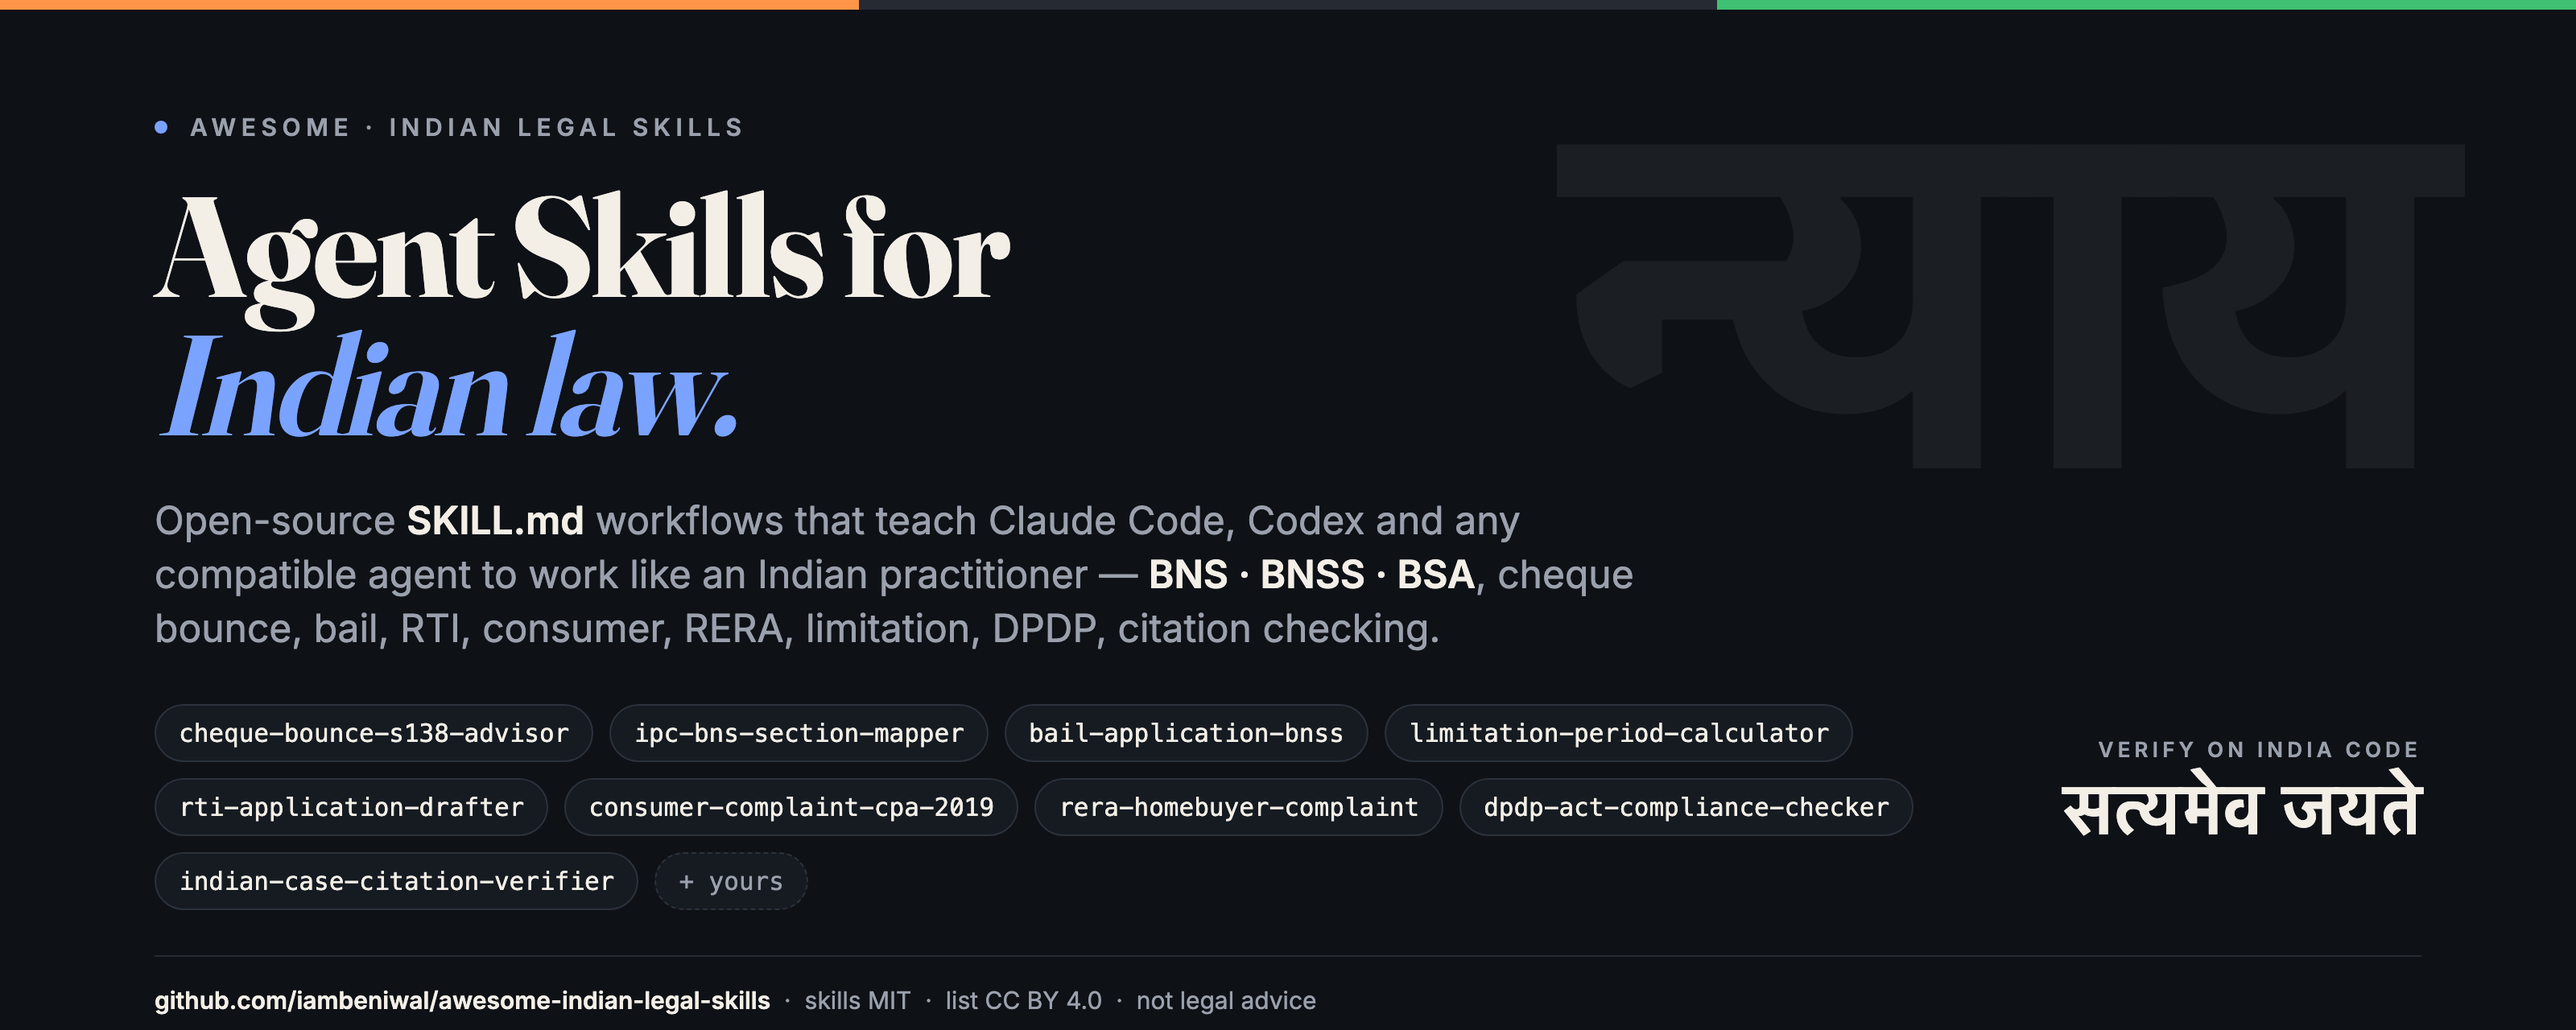
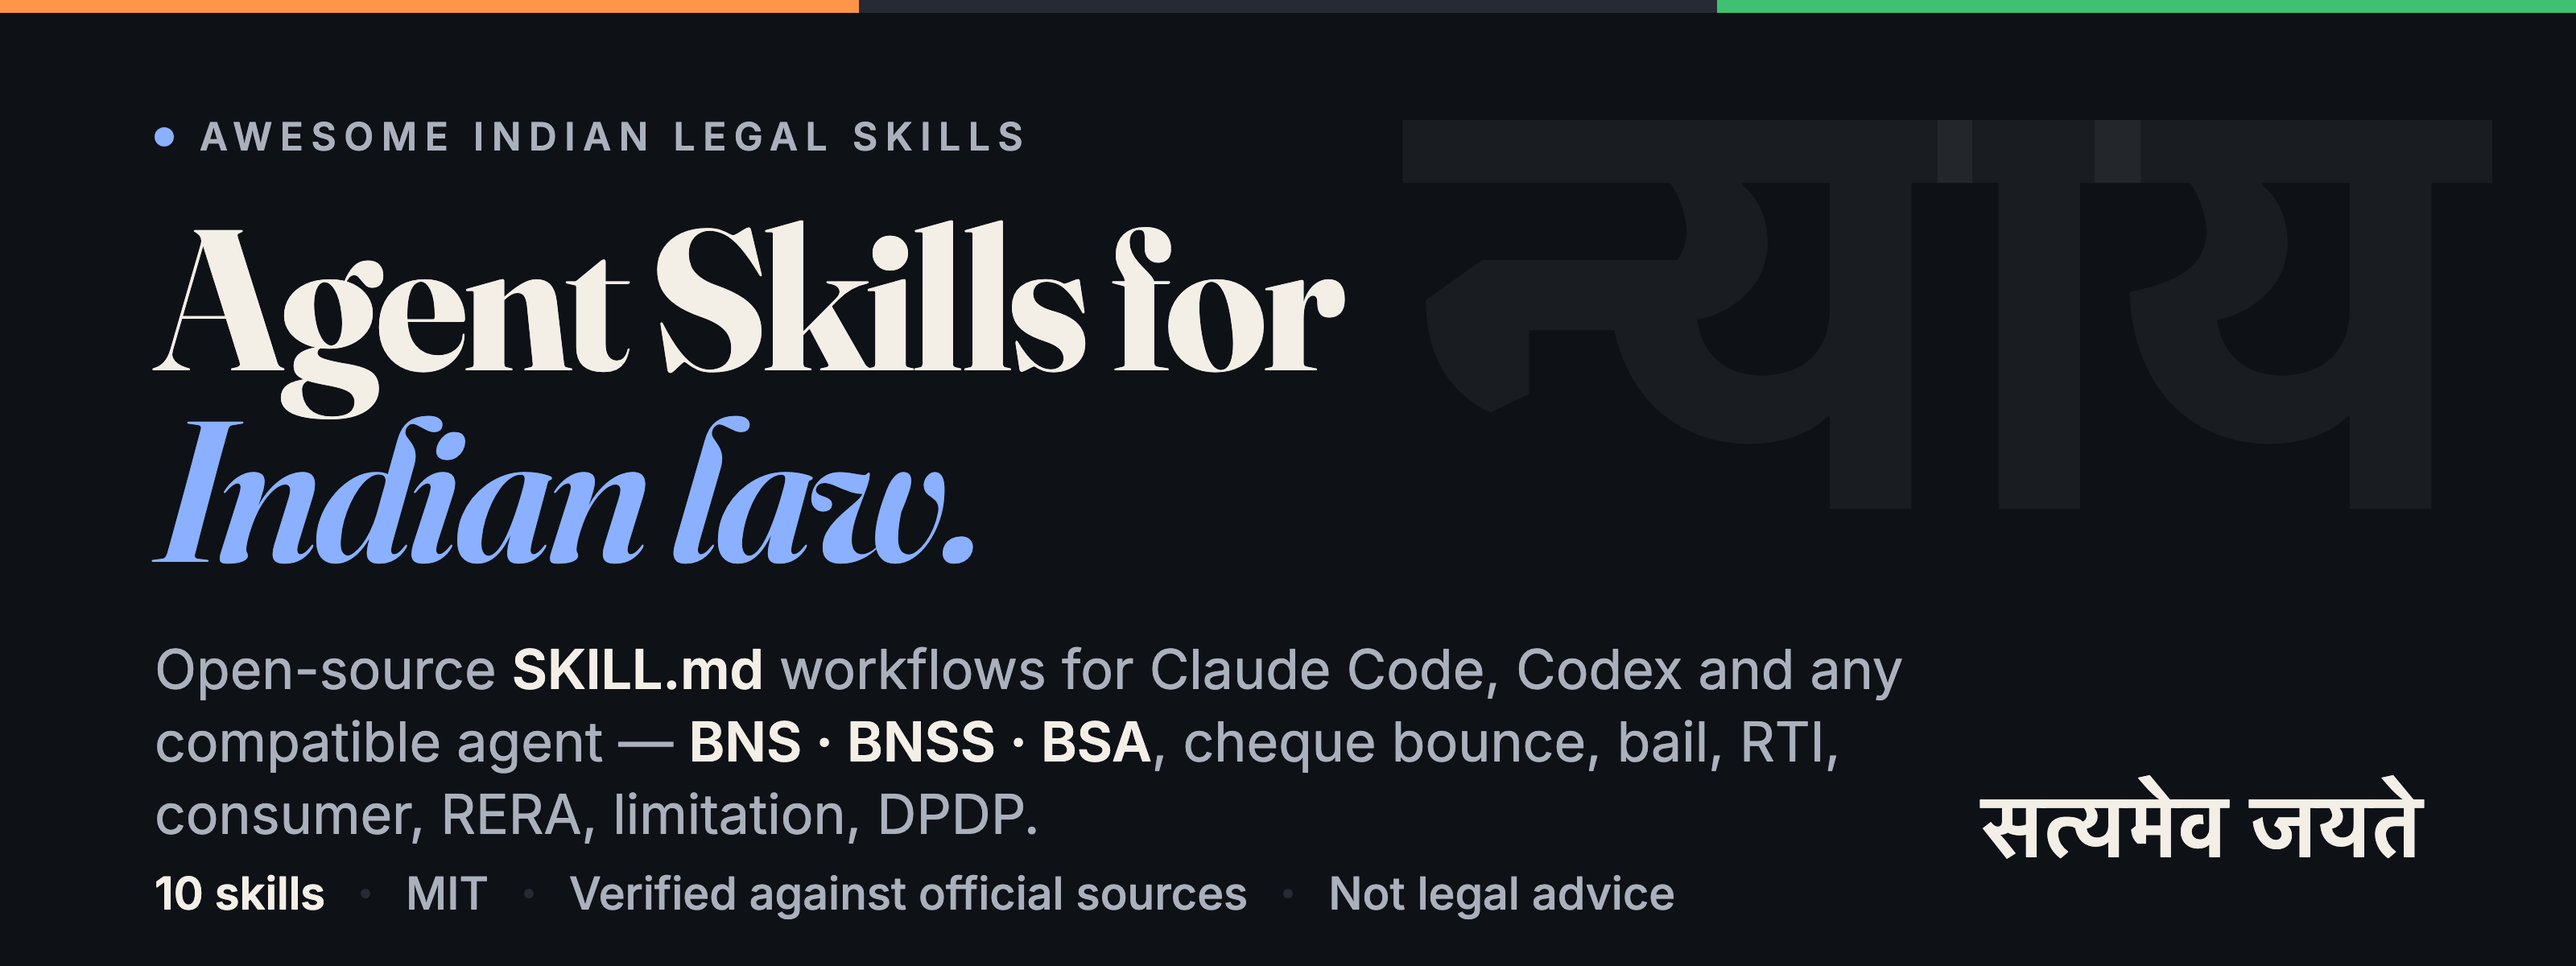
Cover: larger type for GitHub's README width; drop the small pills and footer

diff --git a/assets/cover.html b/assets/cover.html
@@ -4,38 +4,35 @@
 <meta charset="utf-8">
 <title>Awesome Indian Legal Skills — cover</title>
 <link rel="preconnect" href="https://fonts.googleapis.com">
-<link href="https://fonts.googleapis.com/css2?family=Fraunces:opsz,wght@9..144,600;9..144,700&family=Inter:wght@400;500;600&display=swap" rel="stylesheet">
+<link href="https://fonts.googleapis.com/css2?family=Fraunces:ital,opsz,wght@0,9..144,700;1,9..144,600&family=Inter:wght@400;500;600&display=swap" rel="stylesheet">
 <style>
+  /* Designed at 1600 × 600 but READ at ~900 px wide on GitHub (≈56 %). Keep every text ≥ 28 px here. */
   :root {
-    --bg: #faf7f2; --ink: #15171c; --muted: #5c6270; --rule: #e3ded5;
-    --pill: #ffffff; --pill-border: #d9d3c8; --saffron: #e8792b; --green: #1f8a4c; --navy: #1d3b8a;
+    --bg: #faf7f2; --ink: #15171c; --muted: #4f5563; --rule: #e3ded5;
+    --saffron: #e8792b; --green: #1f8a4c; --navy: #1d3b8a; --wm: rgba(21,23,28,0.06);
   }
   .dark {
-    --bg: #0e1116; --ink: #f3efe7; --muted: #9aa1ad; --rule: #262b33;
-    --pill: #161b22; --pill-border: #2b323c; --saffron: #ff9548; --green: #3fc072; --navy: #7aa2ff;
+    --bg: #0e1116; --ink: #f3efe7; --muted: #aab1bd; --rule: #262b33;
+    --saffron: #ff9548; --green: #3fc072; --navy: #8ab0ff; --wm: rgba(243,239,231,0.05);
   }
   * { box-sizing: border-box; margin: 0; }
-  html, body { width: 1600px; height: 640px; overflow: hidden; }
+  html, body { width: 1600px; height: 600px; overflow: hidden; }
   body { background: var(--bg); color: var(--ink); font-family: Inter, -apple-system, "Helvetica Neue", Arial, sans-serif; position: relative; }
-  .tricolour { position: absolute; left: 0; right: 0; top: 0; height: 6px; display: flex; }
+  .tricolour { position: absolute; left: 0; right: 0; top: 0; height: 8px; display: flex; }
   .tricolour span { flex: 1; }
   .tricolour .s { background: var(--saffron); } .tricolour .w { background: var(--rule); } .tricolour .g { background: var(--green); }
-  .wrap { position: absolute; inset: 6px 0 0 0; padding: 64px 96px 52px; display: flex; flex-direction: column; justify-content: space-between; }
-  .eyebrow { font-size: 15px; letter-spacing: 0.22em; text-transform: uppercase; color: var(--muted); font-weight: 600; display: flex; align-items: center; gap: 14px; }
-  .eyebrow .dot { width: 8px; height: 8px; border-radius: 50%; background: var(--navy); display: inline-block; }
-  h1 { font-family: Fraunces, "Iowan Old Style", Georgia, serif; font-weight: 700; font-size: 88px; line-height: 0.98; letter-spacing: -0.02em; max-width: 1050px; margin-top: 22px; font-variation-settings: "opsz" 144; }
+  .nyaya { position: absolute; right: 70px; top: 10px; font-family: "Kohinoor Devanagari", "Devanagari Sangam MN", "Noto Sans Devanagari", sans-serif; font-size: 360px; line-height: 1; font-weight: 700; color: var(--wm); letter-spacing: -0.02em; }
+  .wrap { position: absolute; inset: 8px 0 0 0; padding: 62px 96px 60px; display: flex; flex-direction: column; justify-content: space-between; }
+  .eyebrow { font-size: 24px; letter-spacing: 0.2em; text-transform: uppercase; color: var(--muted); font-weight: 600; display: flex; align-items: center; gap: 16px; }
+  .eyebrow .dot { width: 12px; height: 12px; border-radius: 50%; background: var(--navy); display: inline-block; }
+  h1 { font-family: Fraunces, "Iowan Old Style", Georgia, serif; font-weight: 700; font-size: 124px; line-height: 0.96; letter-spacing: -0.025em; margin-top: 26px; font-variation-settings: "opsz" 144; }
   h1 em { font-style: italic; font-weight: 600; color: var(--navy); }
-  .sub { margin-top: 24px; font-size: 24px; line-height: 1.4; color: var(--muted); max-width: 980px; font-weight: 400; }
+  .sub { margin-top: 30px; font-size: 34px; line-height: 1.32; color: var(--muted); max-width: 1180px; font-weight: 400; }
   .sub b { color: var(--ink); font-weight: 600; }
-  .pills { display: flex; flex-wrap: wrap; gap: 10px; max-width: 1120px; margin-top: 30px; }
-  .pill { font-family: "SF Mono", Menlo, Consolas, monospace; font-size: 15.5px; padding: 8px 14px; border-radius: 999px; background: var(--pill); border: 1px solid var(--pill-border); color: var(--ink); }
-  .pill.more { color: var(--muted); border-style: dashed; }
-  .foot { display: flex; justify-content: space-between; align-items: flex-end; font-size: 15px; color: var(--muted); border-top: 1px solid var(--rule); padding-top: 18px; margin-top: 28px; }
-  .foot b { color: var(--ink); font-weight: 600; }
-  .nyaya { position: absolute; right: 84px; top: 36px; font-family: "Kohinoor Devanagari", "Devanagari Sangam MN", "Noto Sans Devanagari", sans-serif; font-size: 300px; line-height: 1; font-weight: 700; color: var(--ink); opacity: 0.055; letter-spacing: -0.02em; user-select: none; }
-  .mark { position: absolute; right: 96px; bottom: 112px; display: flex; flex-direction: column; align-items: flex-end; gap: 6px; }
-  .mark .kicker { font-size: 13px; letter-spacing: 0.2em; text-transform: uppercase; color: var(--muted); font-weight: 600; }
-  .mark .hi { font-family: "Kohinoor Devanagari", "Devanagari Sangam MN", "Noto Sans Devanagari", sans-serif; font-size: 44px; font-weight: 600; color: var(--ink); line-height: 1.1; }
+  .facts { display: flex; align-items: center; gap: 22px; font-size: 28px; color: var(--muted); font-weight: 500; margin-top: 10px; }
+  .facts b { color: var(--ink); font-weight: 600; }
+  .facts .sep { width: 6px; height: 6px; border-radius: 50%; background: var(--rule); display: inline-block; }
+  .mark { position: absolute; right: 96px; bottom: 56px; font-family: "Kohinoor Devanagari", "Devanagari Sangam MN", "Noto Sans Devanagari", sans-serif; font-size: 54px; font-weight: 600; color: var(--ink); line-height: 1.1; }
 </style>
 </head>
 <body>
@@ -43,26 +40,12 @@
   <div class="nyaya" aria-hidden="true">न्याय</div>
   <div class="wrap">
     <div>
-      <div class="eyebrow"><span class="dot"></span> Awesome · Indian Legal Skills</div>
+      <div class="eyebrow"><span class="dot"></span> Awesome Indian Legal Skills</div>
       <h1>Agent Skills for<br><em>Indian law.</em></h1>
-      <p class="sub">Open-source <b>SKILL.md</b> workflows that teach Claude Code, Codex and any compatible agent to work like an Indian practitioner — <b>BNS · BNSS · BSA</b>, cheque bounce, bail, RTI, consumer, RERA, limitation, DPDP, citation checking.</p>
-      <div class="pills">
-        <span class="pill">cheque-bounce-s138-advisor</span>
-        <span class="pill">ipc-bns-section-mapper</span>
-        <span class="pill">bail-application-bnss</span>
-        <span class="pill">limitation-period-calculator</span>
-        <span class="pill">rti-application-drafter</span>
-        <span class="pill">consumer-complaint-cpa-2019</span>
-        <span class="pill">rera-homebuyer-complaint</span>
-        <span class="pill">dpdp-act-compliance-checker</span>
-        <span class="pill">indian-case-citation-verifier</span>
-        <span class="pill more">+ yours</span>
-      </div>
+      <p class="sub">Open-source <b>SKILL.md</b> workflows for Claude Code, Codex and any compatible agent — <b>BNS · BNSS · BSA</b>, cheque bounce, bail, RTI, consumer, RERA, limitation, DPDP.</p>
     </div>
-    <div class="foot">
-      <div><b>github.com/iambeniwal/awesome-indian-legal-skills</b> &nbsp;·&nbsp; skills MIT &nbsp;·&nbsp; list CC BY 4.0 &nbsp;·&nbsp; not legal advice</div>
-    </div>
+    <div class="facts"><b>10 skills</b><span class="sep"></span>MIT<span class="sep"></span>Verified against official sources<span class="sep"></span>Not legal advice</div>
   </div>
-  <div class="mark"><span class="kicker">Verify on India Code</span><span class="hi">सत्यमेव जयते</span></div>
+  <div class="mark">सत्यमेव जयते</div>
 </body>
 </html>
